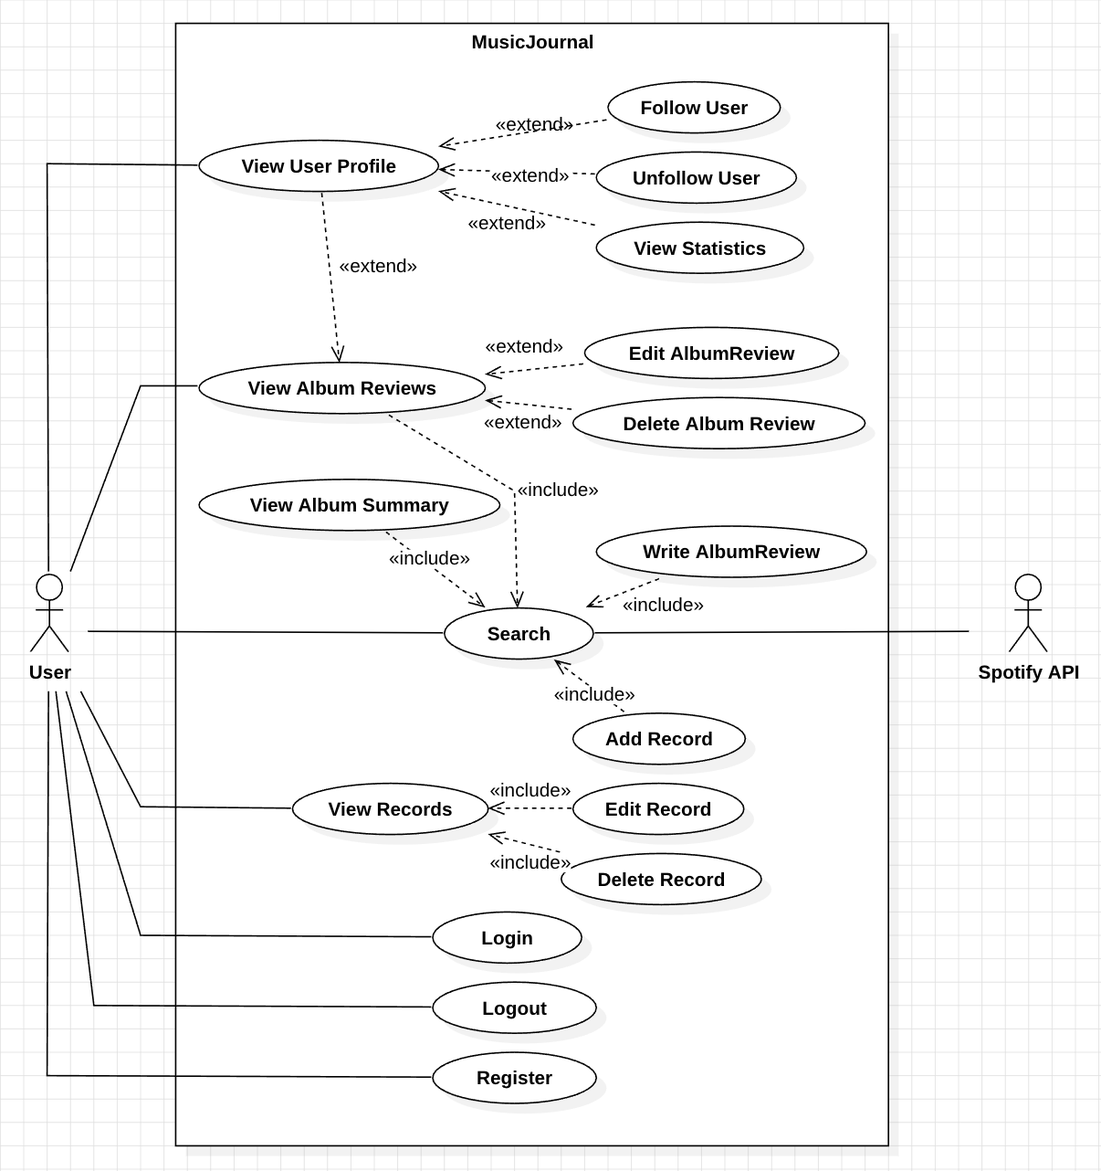
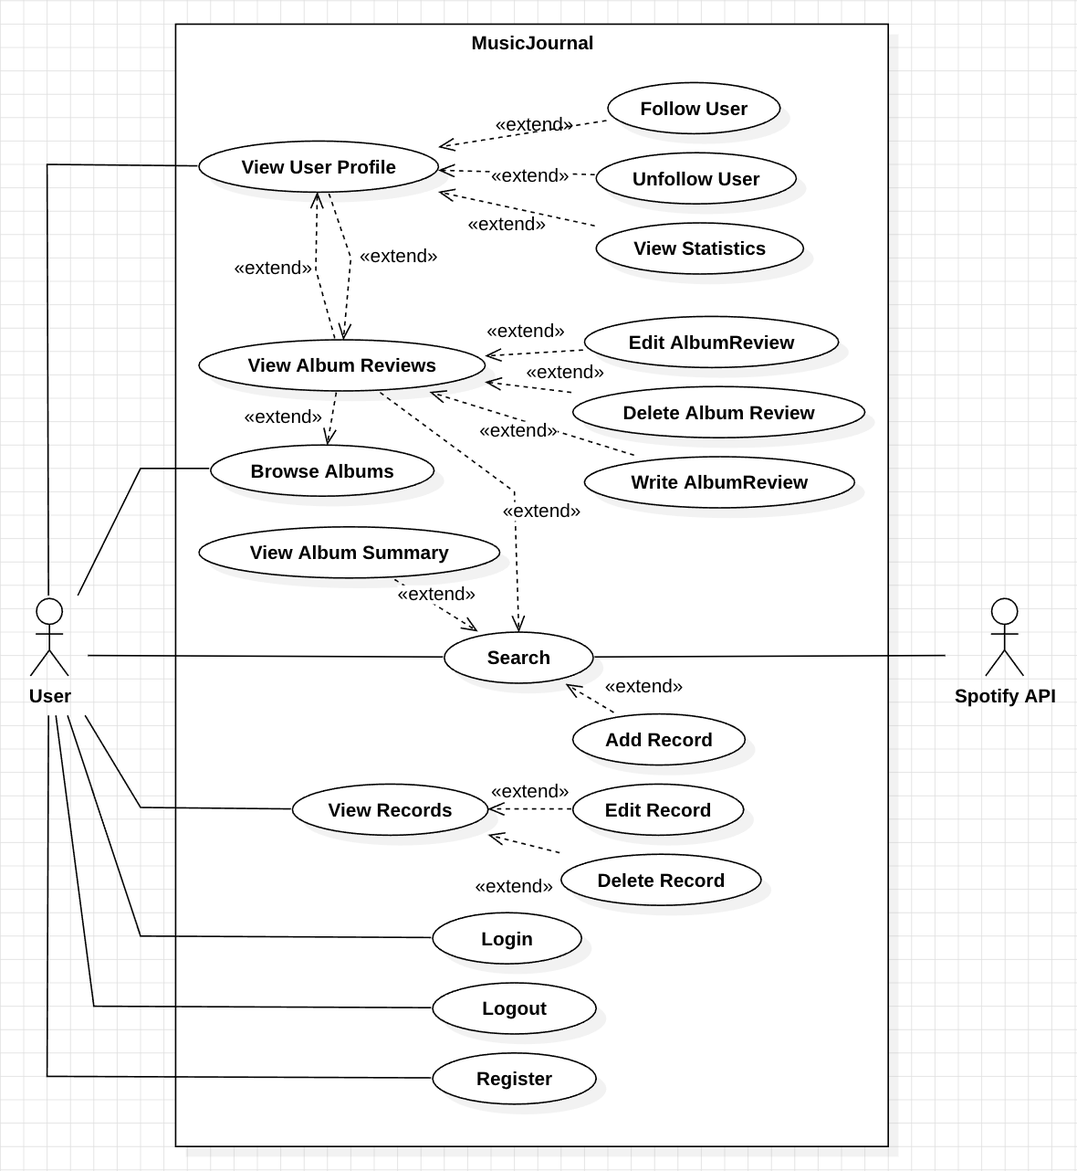
feat: UI Prototype 작성 및 보고서 내용 수정

diff --git a/docs/2_Analysis_22211977_김대현.md b/docs/2_Analysis_22211977_김대현.md
@@ -7,18 +7,19 @@
 ___
 
 ## [Revision history]
-| Revision date | Version # | Description                              | Author |
-|---------------|-----------|------------------------------------------|--------|
-| 04/08/26      | 1.0.0     | 초안                                       | 김대현   |
-| 04/08/26      | 1.0.1     | 내용 보완                                    | 김대현   |
-| 05/01/26      | 1.1.0     | Use Case 및 Domain analysis 상세화           | 김대현   |
-| 05/04/26      | 1.1.1     | 1.1 Summary 내용 개선                        | 김대현   |
-| 05/04/26      | 1.2.0     | Domain analysis 전면 개정                    | 김대현   |
-| 05/04/26      | 1.2.1     | 통계 항목 수정 — 트랙별 통계 제거                     | 김대현   |
-| 05/06/26      | 1.3.0     | 커뮤니티 기능 확장 반영                            | 김대현   |
-| 05/06/26      | 1.4.0     | TrackReview → AlbumReview 전환 반영          | 김대현   |
-| 05/06/26      | 1.5.0     | username unique·변경 불가 반영, 프로필 접근 flow 변경 | 김대현   |
-| 05/06/26      | 1.6.0     | 프로필 설계 변경                                | 김대현   |
+| Revision date | Version # | Description                                | Author |
+|---------------|-----------|--------------------------------------------|--------|
+| 04/08/26      | 1.0.0     | 초안                                         | 김대현   |
+| 04/08/26      | 1.0.1     | 내용 보완                                      | 김대현   |
+| 05/01/26      | 1.1.0     | Use Case 및 Domain analysis 상세화             | 김대현   |
+| 05/04/26      | 1.1.1     | 1.1 Summary 내용 개선                          | 김대현   |
+| 05/04/26      | 1.2.0     | Domain analysis 전면 개정                      | 김대현   |
+| 05/04/26      | 1.2.1     | 통계 항목 수정 — 트랙별 통계 제거                       | 김대현   |
+| 05/06/26      | 1.3.0     | 커뮤니티 기능 확장 반영                              | 김대현   |
+| 05/06/26      | 1.4.0     | TrackReview → AlbumReview 전환 반영            | 김대현   |
+| 05/06/26      | 1.5.0     | username unique·변경 불가 반영, 프로필 접근 flow 변경   | 김대현   |
+| 05/06/26      | 1.6.0     | 프로필 설계 변경                                  | 김대현   |
+| 05/07/26      | 1.7.0     | UI 프로토타입 추가, Browse Albums UC 신규 추가, 오류 수정 | 김대현   |
 
 ---
 
@@ -98,6 +99,7 @@ ___
 - View User Profile 본인 또는 유저 프로필 조회 (본인 시 통계 포함)
 - Follow User 팔로우
 - Unfollow User 언팔로우
+- Browse Albums 이번 달 화제의 앨범 탐색
 
 ### 2.2 Use Case Description
 
@@ -292,38 +294,37 @@ ___
 
 ---
 
-| **Use case #6 : View Records** |                                                      |
-|---|------------------------------------------------------|
-| **GENERAL CHARACTERISTICS** |                                                      |
-| Summary | 사용자가 자신이 기록한 음악 목록을 날짜별로 조회하기 위한 기능                  |
-| Scope | MusicJournal                                         |
-| Level | User Level                                           |
-| Author | 김대현                                                  |
-| Last Update | 05/01/26                                             |
-| Status | Analysis                                             |
-| Primary Actor | User                                                 |
-| Preconditions | 사용자가 로그인 상태여야 한다.                                    |
-| Trigger | 사용자가 기록 목록 페이지에 접근하거나 조회 버튼을 클릭할 때                   |
-| Success Post Condition | 사용자의 음악 기록 목록이 날짜별로 반환된다.                            |
-| Failed Post Condition | 기록 조회에 실패하고 목록이 반환되지 않는다.                            |
-| **MAIN SUCCESS SCENARIO** |                                                      |
-| Step | Action                                               |
-| S | 사용자가 자신의 음악 기록 목록을 조회한다.                             |
-| 1 | 이 Use case는 사용자가 기록 목록 페이지에 접근하거나 조회 버튼을 클릭할 때 시작된다. |
-| 2 | 사용자는 기록 조회 버튼을 클릭한다.                                 |
-| 3 | 시스템은 현재 로그인한 사용자의 음악 기록을 DB에서 날짜 내림차순으로 조회한다.        |
-| 4 | 시스템은 음악 기록 목록(날짜, 음원 정보, 코멘트)을 반환한다.                 |
-| 5 | 이 Use case는 기록 목록이 반환되면 끝난다.                         |
-| **EXTENSION SCENARIOS** |                                                      |
-| Step | Branching Action                                     |
-| 3 | 3a. 조회된 기록이 존재하지 않는 경우                               |
-| | 　...3a1. 시스템은 빈 목록과 함께 "등록된 기록이 없습니다." 메시지를 반환한다.    |
-| | 　...3a2. 이 Use case는 종료된다.                           |
-| **RELATED INFORMATION** |                                                      |
-| Performance | ≤ 1 Seconds                                          |
-| Frequency | 사용자당 하루 평균 3회                                        |
-| Concurrency | 제한 없음                                                |
-| Due Date |                                                      |
+| **Use case #6 : View Records** |                                                        |
+|---|---|
+| **GENERAL CHARACTERISTICS** |                                                        |
+| Summary | 사용자가 일기 탭에 진입할 때 자신의 음악 기록 목록이 자동으로 표시되는 기능 |
+| Scope | MusicJournal |
+| Level | User Level |
+| Author | 김대현 |
+| Last Update | 05/01/26 |
+| Status | Analysis |
+| Primary Actor | User |
+| Preconditions | 사용자가 로그인 상태여야 한다. |
+| Trigger | 사용자가 앱에 접속하여 일기 탭에 진입할 때 |
+| Success Post Condition | 사용자의 음악 기록 목록이 기록순으로 반환된다. |
+| Failed Post Condition | 기록 조회에 실패하고 목록이 반환되지 않는다. |
+| **MAIN SUCCESS SCENARIO** |                                                        |
+| Step | Action |
+| S | 사용자가 자신의 음악 기록 목록을 조회한다. |
+| 1 | 이 Use case는 사용자가 일기 탭에 진입하는 순간 자동으로 시작된다. |
+| 2 | 시스템은 현재 로그인한 사용자의 음악 기록을 DB에서 날짜 내림차순으로 조회한다. |
+| 3 | 시스템은 음악 기록 목록(날짜, 음원 정보, 코멘트)을 반환한다. |
+| 4 | 이 Use case는 기록 목록이 반환되면 끝난다. |
+| **EXTENSION SCENARIOS** |                                                        |
+| Step | Branching Action |
+| 2 | 2a. 조회된 기록이 존재하지 않는 경우 |
+| | 　...2a1. 시스템은 빈 목록과 함께 "음악과 함께 기록을 시작해보세요!" 메시지를 반환한다. |
+| | 　...2a2. 이 Use case는 종료된다. |
+| **RELATED INFORMATION** |                                                        |
+| Performance | ≤ 1 Seconds |
+| Frequency | 사용자당 하루 평균 3회 |
+| Concurrency | 제한 없음 |
+| Due Date | |
 
 ---
 
@@ -425,7 +426,7 @@ ___
 | Step | Action                                                                      |
 | S | 사용자가 자신의 음악 청취 통계를 조회한다.                                                    |
 | 1 | 이 Use case는 사용자가 내 프로필 페이지의 통계 섹션에 접근할 때 시작된다.                               |
-| 2 | 사용자는 통계 조회 버튼을 클릭한다.                                                        |
+| 2 | 사용자는 내 프로필의 통계 탭을 선택한다.                                                        |
 | 3 | 시스템은 현재 로그인한 사용자의 음악 기록을 기반으로 통계를 집계한다.                                     |
 | 4 | 시스템은 통계 정보(전체·월별 기록 수, 자주 들은 아티스트 Top 3, 자주 들은 앨범 Top 3)를 반환한다.             |
 | 5 | 이 Use case는 통계 정보가 반환되면 끝난다.                                                |
@@ -716,6 +717,40 @@ ___
 
 ---
 
+| **Use case #17 : Browse Albums** |                                                          |
+|---|------------------------------------------------------|
+| **GENERAL CHARACTERISTICS** |                                                          |
+| Summary | 사용자가 평론 탭 홈에서 이번 달 화제의 앨범 목록을 탐색하기 위한 기능 |
+| Scope | MusicJournal                                         |
+| Level | User Level                                           |
+| Author | 김대현                                                  |
+| Last Update | 05/07/26                                             |
+| Status | Analysis                                             |
+| Primary Actor | User                                                 |
+| Preconditions | 사용자가 로그인 상태여야 한다.                                    |
+| Trigger | 사용자가 평론 탭에 접근할 때                                      |
+| Success Post Condition | 이번 달 화제의 앨범 목록이 반환된다.                                |
+| Failed Post Condition | 앨범 목록 조회에 실패하고 데이터가 반환되지 않는다.                        |
+| **MAIN SUCCESS SCENARIO** |                                                          |
+| Step | Action                                               |
+| S | 사용자가 평론 탭 홈에서 앨범을 탐색한다.                              |
+| 1 | 이 Use case는 사용자가 평론 탭에 접근할 때 시작된다.                   |
+| 2 | 시스템은 이번 달 등록된 평론 수를 기준으로 앨범을 집계하여 상위 목록을 반환한다.      |
+| 3 | 사용자는 앨범을 선택하여 View Album Reviews(#13)로 이동한다.          |
+| 4 | 이 Use case는 앨범 목록이 반환되면 끝난다.                         |
+| **EXTENSION SCENARIOS** |                                                          |
+| Step | Branching Action                                     |
+| 2 | 2a. 이번 달 등록된 평론이 존재하지 않는 경우                          |
+| | 　...2a1. 시스템은 빈 목록을 반환한다.                            |
+| | 　...2a2. 이 Use case는 종료된다.                           |
+| **RELATED INFORMATION** |                                                          |
+| Performance | ≤ 2 Seconds                                          |
+| Frequency | 사용자당 하루 평균 3회                                        |
+| Concurrency | 제한 없음                                                |
+| Due Date |                                                      |
+
+---
+
 ## 3. Domain analysis
 
 1) User
@@ -748,7 +783,7 @@ Spotify API로부터 받아온 앨범 정보를 나타내는 독립 엔티티다
 
 8) AlbumReview
 
-사용자가 특정 앨범에 남기는 평점과 평론을 나타내는 엔티티다. 평점(rating, DECIMAL(3,1), 0.1~10.0), 평론(content, nullable), 생성 일시(createdAt), 수정 일시(updatedAt) 속성을 보유한다. User와 Album을 참조하며, 동일한 User와 Album 조합에 대해 unique 제약을 가진다. (AlbumReview N : User 1, AlbumReview N : Album 1) 하나의 AlbumReview는 여러 AlbumRecommendation을 포함하며, 리뷰 삭제 시 연결된 추천 앨범도 함께 삭제된다.
+사용자가 특정 앨범에 남기는 평점과 평론을 나타내는 엔티티다. 평점(rating, DECIMAL(3,1), 0.1~10.0), 평론(content, nullable), 생성 일시(createdAt), 수정 일시(updatedAt) 속성을 보유한다. User와 Album을 참조하며, 동일한 User와 Album 조합에 대해 unique 제약을 가진다. (AlbumReview N : User 1, AlbumReview N : Album 1) 하나의 AlbumReview는 여러 AlbumRecommendation을 포함하며, 리뷰 삭제 시 연결된 추천 앨범도 함께 삭제된다. 이번 달 등록된 평론 수를 기준으로 화제의 앨범을 집계하는 데 사용된다 (Browse Albums).
 
 9) AlbumRecommendation
 
@@ -758,7 +793,90 @@ AlbumReview에 종속된 추천 앨범 단위다. 추천 대상 앨범(Album)을
 
 ## 4. User Interface Prototype
 
-*(추후 작성 예정)*
+본 프로토타입은 분석 단계의 산출물로, 이후 설계 및 구현 과정에서 변경될 수 있다.
+
+### 1. Auth
+<table>
+  <tr>
+    <td><img src="./images/proto/1_login.png" width="200"/></td>
+    <td><img src="./images/proto/1_signup.png" width="200"/></td>
+  </tr>
+</table>
+
+그림 4-1은 로그인 화면이다. 이메일과 비밀번호를 입력하여 로그인하며, 하단의 회원가입 링크를 통해 가입 화면으로 이동할 수 있다.
+
+그림 4-2는 회원가입 화면이다. 이메일, username(@아이디), 비밀번호를 입력하여 계정을 생성한다. username은 가입 후 변경이 불가능하며 이를 화면에 명시한다. 이용약관 동의 후 가입하기 버튼으로 계정을 생성한다.
+
+---
+
+### 2. My Record
+<table>
+  <tr>
+    <td><img src="./images/proto/2_home_record.png" width="200"/></td>
+    <td><img src="./images/proto/2_home_detail.png" width="200"/></td>
+    <td><img src="./images/proto/2_record_edit.png" width="200"/></td>
+  </tr>
+</table>
+
+그림 4-3은 일기 탭 홈 화면이다. 상단 검색창에서 트랙/앨범 유형을 선택하여 검색할 수 있으며, 하단에는 사용자의 기록 목록이 날짜 내림차순으로 표시된다. 각 항목은 날짜, 앨범 커버, 트랙명, 아티스트, 코멘트를 포함한다.
+
+그림 4-4는 기록 상세 화면이다. 선택한 기록의 날짜, 트랙 정보, 코멘트를 확인할 수 있으며 수정 및 삭제 버튼이 제공된다.
+
+그림 4-5는 기록 수정 화면이다. 하단 시트(Bottom Sheet) 형태로 노출되며, 트랙은 변경이 불가하고 날짜와 코멘트만 수정할 수 있다.
+
+---
+
+### 3. Record
+<table>
+  <tr>
+    <td><img src="./images/proto/3_track.png" width="200"/></td>
+    <td><img src="./images/proto/3_track_detail.png" width="200"/></td>
+    <td><img src="./images/proto/3_track_record.png" width="200"/></td>
+  </tr>
+</table>
+
+그림 4-6은 트랙 검색 결과 화면이다. 키워드 검색 후 트랙 목록(트랙명, 아티스트, 앨범명, 재생 시간)이 표시된다.
+
+그림 4-7은 트랙 선택 후 앨범 요약 카드가 노출된 화면이다. 해당 트랙이 속한 앨범의 평균 평점과 리뷰 수가 표시되며, '평론 보기' 버튼으로 평론 탭으로 이동하거나 '일기에 추가' 버튼으로 기록 추가 모달을 열 수 있다.
+
+그림 4-8은 일기 추가 모달이다. 하단 시트 형태로 노출되며, 선택한 트랙 정보, 날짜 선택, 코멘트 입력 후 저장할 수 있다.
+
+---
+
+### 4. Review
+<table>
+  <tr>
+    <td><img src="./images/proto/4_review_tab.png" width="200"/></td>
+    <td><img src="./images/proto/4_album.png" width="200"/></td>
+    <td><img src="./images/proto/4_review.png" width="200"/></td>
+    <td><img src="./images/proto/4_review_post.png" width="200"/></td>
+  </tr>
+</table>
+
+그림 4-9는 평론 탭 홈 화면이다. 상단 검색창에서 앨범을 검색할 수 있으며, 이번 달 화제의 앨범이 그리드 형태로 표시된다.
+
+그림 4-10은 앨범 검색 결과 화면이다. 앨범명, 아티스트, 출시년도와 함께 해당 앨범의 평균 평점이 표시된다.
+
+그림 4-11은 앨범 평론 목록 화면이다. 앨범 정보, 평점 분포 차트, 전체 리뷰 목록이 표시된다. 본인 리뷰에는 수정/삭제 버튼이 노출되며, FAB 버튼으로 평론 작성 모달을 열 수 있다.
+
+그림 4-12는 평론 작성 모달이다. 평점 슬라이더(0.1~10.0), 평론 텍스트(선택), 추천 앨범(최대 3개) 입력 후 저장할 수 있다.
+
+---
+
+### 5. Profile
+<table>
+  <tr>
+    <td><img src="./images/proto/5_profile_user.png" width="200"/></td>
+    <td><img src="./images/proto/5_profile_my.png" width="200"/></td>
+    <td><img src="./images/proto/5_stat.png" width="200"/></td>
+  </tr>
+</table>
+
+그림 4-13은 타인 프로필 화면이다. username, 팔로워·팔로잉 수, 팔로우 버튼, 평론 목록이 표시된다. 통계 탭은 노출되지 않는다.
+
+그림 4-14는 내 프로필 화면이다. username, 팔로워·팔로잉 수와 함께 평론 목록/통계 탭이 제공된다. 평론 목록 탭에서는 내가 작성한 리뷰를 앨범 커버, 평점, 평론 요약 형태로 확인할 수 있다.
+
+그림 4-15는 내 프로필의 통계 탭 화면이다. 총 기록 수, 이번 달 기록 수, 가장 많이 들은 아티스트 Top 3(막대 그래프), 가장 많이 들은 앨범 Top 3(커버 그리드)를 제공한다.
 
 ---
 

diff --git a/docs/1_Conceptualization_22211977_김대현.md b/docs/1_Conceptualization_22211977_김대현.md
@@ -16,6 +16,7 @@ ___
 | 05/06/26      | 1.05     | 커뮤니티 확장 반영 — Business purpose 재정의, 신규 Use Case 및 Concept of Operation 추가, Glossary 보완 | 김대현   |
 | 05/06/26      | 1.06     | 리뷰 단위 TrackReview → AlbumReview로 전환, 서비스 Flow 및 관련 항목 전면 수정                           | 김대현   |
 | 05/06/26      | 1.07     | 프로필 설계 변경 — 본인/타인 통합, 통계 내 프로필 포함, 일관성 수정                                             | 김대현   |
+| 05/07/26      | 1.08     | 오류 수정                                                                                 | 김대현   |
 
 ---
 
@@ -117,7 +118,7 @@ ___
 
 | Actor | Description       |
 |:------|:------------------|
-| User  | 사용자는 기록한 일기를 조회한다 |
+| User  | 사용자는 일기 탭에 진입하면 기록한 일기 목록을 확인한다 |
 
 - 기록 수정
 
@@ -185,19 +186,25 @@ ___
 |:------|:---------------------------------------------|
 | User  | 사용자는 다른 사용자를 팔로우하거나 언팔로우한다 |
 
+- 화제의 앨범 탐색
+
+| Actor | Description                                        |
+|:------|:---------------------------------------------------|
+| User  | 사용자는 평론 탭 홈에서 이번 달 화제의 앨범 목록을 탐색한다 |
+
 ---
 
 ## 4. Concept of Operation
 1. 회원가입
 - **Purpose**: 방문자가 서비스 이용을 위해 본인의 계정을 생성할 수 있도록 한다
 - **Approach**: 방문자는 아이디, 비밀번호 등 필요한 정보를 입력하여 회원가입을 요청하고, 시스템은 입력값을 검증한 후 계정을 생성한다
-- **Dynamics**: 시스템은 입력된 정보의 유효성을 확인하고 중복 여부를 검사한 뒤 정상적인 경우 사용자 계정을 생성하고 저장한다
+- **Dynamics**: 시스템은 입력된 정보의 유효성을 확인하고, 이메일 및 username의 중복 여부를 검사한 뒤 정상적인 경우 사용자 계정을 생성하고 저장한다
 - **Goals**: 사용자가 개인 계정을 기반으로 음악 일기 서비스를 지속적으로 이용할 수 있도록 한다
 
 2. 로그인
 - **Purpose**: 기존 사용자가 자신의 계정을 통해 서비스에 접근할 수 있도록 한다
 - **Approach**: 사용자는 아이디와 비밀번호를 입력하여 로그인을 요청하고, 시스템은 입력된 정보를 검증한다
-- **Dynamics**: 시스템은 입력된 계정 정보가 저장된 사용자 정보와 일치하는지 확인하고, 인증이 성공하면 사용자 세션을 생성한다
+- **Dynamics**: 시스템은 입력된 계정 정보가 저장된 사용자 정보와 일치하는지 확인하고, 인증이 성공하면 JWT Access Token과 Refresh Token을 발급한다
 - **Goals**: 사용자가 자신의 계정으로 음악 일기 기록 및 관리 기능을 이용할 수 있도록 한다
 
 3. 검색 (트랙/앨범)
@@ -209,10 +216,10 @@ ___
 4. 검색 결과 조회
 - **Purpose**: 사용자가 검색한 음원의 목록을 확인할 수 있도록 한다
 - **Approach**: 시스템은 검색 요청에 대한 결과로 트랙명, 아티스트명, 앨범커버 등의 정보를 포함한 목록을 사용자에게 제공한다
-- **Dynamics**: 시스템은 API로부터 받은 데이터를 가공하여 리스트 형태로 출력하고, 사용자는 각 음원을 선택할 수 있다
+- **Dynamics**: 시스템은 API로부터 받은 데이터를 가공하여 리스트 형태로 출력하고, 사용자는 각 음원을 선택할 수 있다. 트랙 검색 시 특정 트랙을 선택하면 해당 앨범의 평균 평점과 리뷰 수가 함께 노출된다
 - **Goals**: 사용자가 검색 결과를 기반으로 원하는 음원을 직관적으로 탐색하고 선택할 수 있도록 한다
 
-5. 날짜 추가
+5. 날짜 선택
 - **Purpose**:사용자가 선택한 음원을 특정 날짜의 음악 일기에 포함할 수 있도록 한다
 - **Approach**:사용자는 선택한 음원을 기록에 추가하는 요청을 수행한다
 - **Dynamics**:시스템은 선택된 날짜와 음원 정보를 연결하여 하나의 기록 단위로 저장 준비 상태를 구성한다
@@ -232,7 +239,7 @@ ___
 
 8. 기록 조회
 - **Purpose**: 사용자가 저장한 음악 일기를 확인할 수 있도록 한다
-- **Approach**: 사용자는 특정 날짜 또는 전체 기록을 조회 요청한다
+- **Approach**: 사용자가 일기 탭에 진입하면 시스템이 자동으로 기록 목록을 불러온다
 - **Dynamics**: 시스템은 저장된 데이터를 조회하여 날짜별 음악 기록과 코멘트를 사용자에게 제공한다
 - **Goals**:사용자가 자신의 음악 기록을 쉽게 확인하고 회고할 수 있도록 한다
 
@@ -260,19 +267,19 @@ ___
 - **Dynamics**: 시스템은 사용자 세션을 종료하고 인증 정보를 제거한다
 - **Goals**: 사용자가 안전하게 계정을 종료하고, 개인 정보 보호를 유지할 수 있도록 한다
 
-13. 앨범 평론/추천 작성
+13. 앨범 평론 작성
 - **Purpose**: 사용자가 앨범에 대한 평점·평론·추천 앨범을 하나의 리뷰로 남길 수 있도록 한다
 - **Approach**: 사용자는 평점(필수, 0.1~10.0), 평론(선택), 추천 앨범 리스트(선택, 최대 3개)를 입력하여 작성 요청한다
 - **Dynamics**: 동일 앨범에 대한 기존 리뷰가 있을 경우 덮어쓰기(upsert) 처리된다. 추천 앨범은 최대 3개까지 등록할 수 있다
 - **Goals**: 사용자가 앨범에 대한 주관적 평가를 언어화하고 취향을 정립할 수 있도록 한다
 
-14. 앨범 평론/추천 수정
+14. 앨범 평론 수정
 - **Purpose**: 사용자가 작성한 리뷰의 평점·평론·추천 앨범을 수정할 수 있도록 한다
 - **Approach**: 사용자는 수정할 내용을 입력하고 수정 요청한다
 - **Dynamics**: 시스템은 기존 리뷰를 새 데이터로 업데이트한다. 추천 앨범은 기존 목록을 전부 삭제하고 새 리스트로 교체한다
 - **Goals**: 사용자가 자신의 리뷰를 상황에 맞게 유연하게 관리할 수 있도록 한다
 
-15. 앨범 평론/추천 삭제
+15. 앨범 평론 삭제
 - **Purpose**: 사용자가 본인의 리뷰(평점·평론·추천 앨범 전체)를 삭제할 수 있도록 한다
 - **Approach**: 사용자는 삭제 요청을 수행한다
 - **Dynamics**: 시스템은 리뷰와 연결된 추천 앨범을 함께 삭제한다
@@ -295,6 +302,12 @@ ___
 - **Approach**: 사용자는 특정 유저의 프로필에서 팔로우 또는 언팔로우를 요청한다
 - **Dynamics**: 시스템은 팔로우 관계를 저장하거나 삭제한다. 자기 자신은 팔로우할 수 없다
 - **Goals**: 취향 기반의 사용자 간 연결을 통해 커뮤니티를 형성할 수 있도록 한다
+
+19. 화제의 앨범 탐색
+- **Purpose**: 사용자가 평론 탭 홈에서 이번 달 인기 앨범을 발견할 수 있도록 한다
+- **Approach**: 사용자는 평론 탭에 접근하여 화제의 앨범 목록을 확인한다
+- **Dynamics**: 시스템은 이번 달 등록된 평론 수를 기준으로 앨범을 집계하여 상위 목록을 반환한다
+- **Goals**: 사용자가 다양한 앨범을 자연스럽게 탐색하고 평론으로 이어질 수 있도록 한다
 
 ---
 
